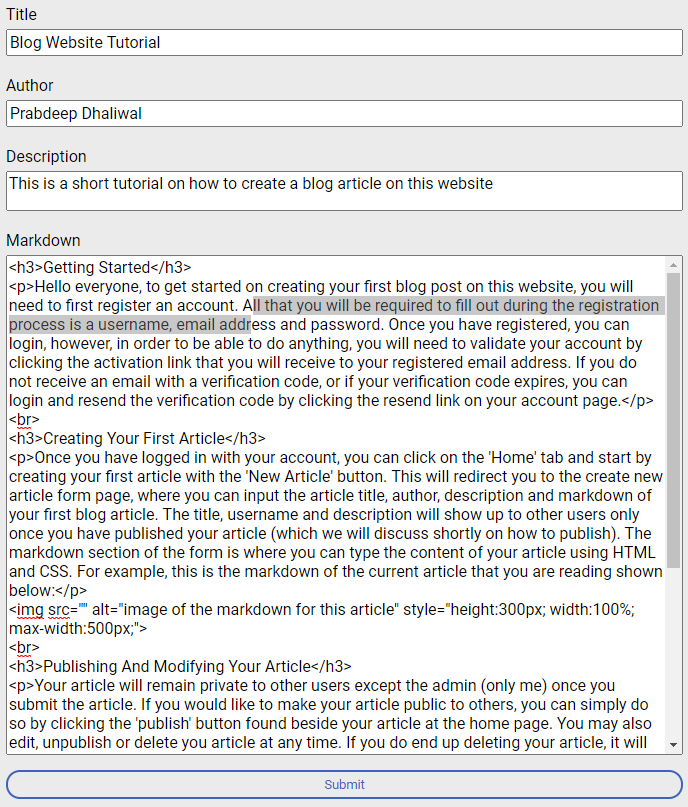
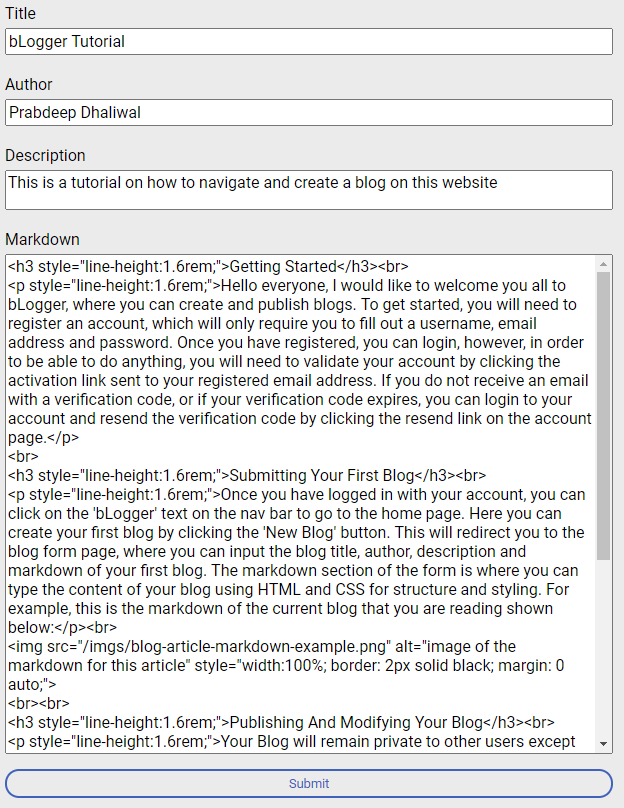
Update Term Article to Blog

diff --git a/routes/blogRoutes.js b/routes/blogRoutes.js
@@ -82,7 +82,7 @@ router.post('/new', checkValidated, checkAuthenticated, async (req, res) => {
         user,
       });
     } else {
-      res.redirect(`/blogs/view/${article.slug}`);
+      res.redirect(`/bLogger/view/${article.slug}`);
     }
   });
 });
@@ -104,9 +104,9 @@ router.post(
 
     const saveComment = await comments.save((err, result) => {
       if (err) {
-        res.redirect(`/blogs/view/${article.slug}`);
+        res.redirect(`/bLogger/view/${article.slug}`);
       } else {
-        res.redirect(`/blogs/view/${article.slug}`);
+        res.redirect(`/bLogger/view/${article.slug}`);
       }
     });
   }
@@ -131,9 +131,9 @@ router.post(
 
     const saveReply = await replies.save((err, result) => {
       if (err) {
-        res.redirect(`/blogs/view/${article.slug}`);
+        res.redirect(`/bLogger/view/${article.slug}`);
       } else {
-        res.redirect(`/blogs/view/${article.slug}`);
+        res.redirect(`/bLogger/view/${article.slug}`);
       }
     });
   }
@@ -158,7 +158,7 @@ router.put(
       if (err) {
         res.render('new', { title: 'New Article', article, user: req.user });
       } else {
-        res.redirect(`/blogs/view/${article.slug}`);
+        res.redirect(`/bLogger/view/${article.slug}`);
       }
     });
   }
@@ -176,9 +176,9 @@ router.put(
 
     const saveArticle = await article.save((err, result) => {
       if (err) {
-        res.redirect('/blogs');
+        res.redirect('/bLogger');
       } else {
-        res.redirect('/blogs');
+        res.redirect('/bLogger');
       }
     });
   }
@@ -198,9 +198,9 @@ router.put(
 
     const saveComment = await userComment.save((err, result) => {
       if (err) {
-        res.redirect(`/blogs/view/${article.slug}`);
+        res.redirect(`/bLogger/view/${article.slug}`);
       } else {
-        res.redirect(`/blogs/view/${article.slug}`);
+        res.redirect(`/bLogger/view/${article.slug}`);
       }
     });
   }
@@ -221,9 +221,9 @@ router.put(
 
     const saveComment = await reply.save((err, result) => {
       if (err) {
-        res.redirect(`/blogs/view/${article.slug}`);
+        res.redirect(`/bLogger/view/${article.slug}`);
       } else {
-        res.redirect(`/blogs/view/${article.slug}`);
+        res.redirect(`/bLogger/view/${article.slug}`);
       }
     });
   }
@@ -254,9 +254,9 @@ router.put(
 
     const saveComment = await comment.save((err, result) => {
       if (err) {
-        res.redirect('/blogs');
+        res.redirect('/bLogger');
       } else {
-        res.redirect(`/blogs/view/${article.slug}`);
+        res.redirect(`/bLogger/view/${article.slug}`);
       }
     });
   }
@@ -287,9 +287,9 @@ router.put(
 
     const saveReply = await reply.save((err, result) => {
       if (err) {
-        res.redirect(`/blogs/view/${article.slug}`);
+        res.redirect(`/bLogger/view/${article.slug}`);
       } else {
-        res.redirect(`/blogs/view/${article.slug}`);
+        res.redirect(`/bLogger/view/${article.slug}`);
       }
     });
   }
@@ -306,7 +306,7 @@ router.delete('/:id', checkAuthenticated, checkValidated, async (req, res) => {
   await Comment.deleteMany({ blogRef: article._id });
   await Article.deleteOne(article);
 
-  res.redirect('/blogs');
+  res.redirect('/bLogger');
 });
 
 // delete comment
@@ -321,7 +321,7 @@ router.delete(
     await Reply.deleteMany({ commentRef: comment._id });
     await Comment.deleteOne(comment);
 
-    res.redirect(`/blogs/view/${article.slug}`);
+    res.redirect(`/bLogger/view/${article.slug}`);
   }
 );
 
@@ -334,7 +334,7 @@ router.delete(
     const article = await Article.findOne({ slug: req.params.slug });
     await Reply.findByIdAndDelete(req.params.id);
 
-    res.redirect(`/blogs/view/${article.slug}`);
+    res.redirect(`/bLogger/view/${article.slug}`);
   }
 );
 

diff --git a/public/popUpWindow.js b/public/popUpWindow.js
@@ -33,21 +33,21 @@ function deleteAccountFunction(id) {
 
 function deleteArticleFunction(id) {
   dataArticleMessagePopupContainer.forEach((articlePopup) => {
-    articlePopup.lastChild.previousSibling.lastChild.previousSibling.action = `/blogs/${id}?_method=DELETE`;
+    articlePopup.lastChild.previousSibling.lastChild.previousSibling.action = `/bLogger/${id}?_method=DELETE`;
     openMessagePopup('article');
   });
 }
 
 function deleteCommentFunction(articleSlug, commentId) {
   dataCommentMessagePopupContainer.forEach((commentPopup) => {
-    commentPopup.lastChild.previousSibling.lastChild.previousSibling.action = `/blogs/view/${articleSlug}/comment/${commentId}?_method=DELETE`;
+    commentPopup.lastChild.previousSibling.lastChild.previousSibling.action = `/bLogger/view/${articleSlug}/comment/${commentId}?_method=DELETE`;
     openMessagePopup('comment');
   });
 }
 
 function deleteReplyFunction(articleSlug, commentId, replyId) {
   dataReplyMessagePopupContainer.forEach((replyPopup) => {
-    replyPopup.lastChild.previousSibling.lastChild.previousSibling.action = `/blogs/view/${articleSlug}/comment/${commentId}/reply/${replyId}?_method=DELETE`;
+    replyPopup.lastChild.previousSibling.lastChild.previousSibling.action = `/bLogger/view/${articleSlug}/comment/${commentId}/reply/${replyId}?_method=DELETE`;
     openMessagePopup('reply');
   });
 }

diff --git a/routes/userRoutes.js b/routes/userRoutes.js
@@ -4,7 +4,6 @@ const VerifyAccount = require('../models/verifyCodeSchema');
 const { checkAuthenticated, checkNotAuthenticated } = require('../config/auth');
 const passport = require('passport');
 const transporter = require('../config/nodemailer');
-const axios = require('axios');
 
 const router = require('express').Router();
 

diff --git a/public/styles/styles.css b/public/styles/styles.css
@@ -557,7 +557,6 @@ nav div a:hover {
 }
 
 .comment-and-edit-input-container .comment {
-  word-break: break-all;
   padding-bottom: 10px;
 }
 
@@ -973,6 +972,7 @@ button.error-button:hover {
 .delete-comment-window,
 .delete-reply-window {
   max-width: 500px;
+  width: 100%;
   height: 300px;
   position: fixed;
   top: 15%;

diff --git a/server.js b/server.js
@@ -53,7 +53,7 @@ app.use((req, res, next) => {
 
 // Routes
 app.get('/', (req, res) => {
-  res.redirect('/blogs');
+  res.redirect('/bLogger');
 });
-app.use('/blogs', blogRoutes);
+app.use('/bLogger', blogRoutes);
 app.use('/account', userRoutes);

diff --git a/public/styles/_misc.scss b/public/styles/_misc.scss
@@ -196,6 +196,7 @@ button.error-button:hover {
 .delete-comment-window,
 .delete-reply-window {
   max-width: 500px;
+  width: 100%;
   height: 300px;
   position: fixed;
   top: 15%;

diff --git a/public/styles/_comments.scss b/public/styles/_comments.scss
@@ -62,7 +62,6 @@
 .comment-and-edit-input-container {
   margin-top: 20px;
   .comment {
-    word-break: break-all;
     padding-bottom: 10px;
   }
   form {
